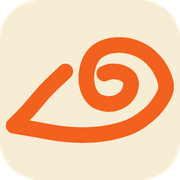
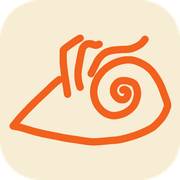
Hand-lettered title, Zobie with hair, release bar, Bilderberg headings, clickable covers and titles, About moved up, Zobie easter egg

Changed region(s): [[0.0278, 0.1944, 0.9722, 0.8333]]

diff --git a/index.html b/index.html
@@ -8,25 +8,39 @@
   <meta property="og:title" content="Kostandino">
   <meta property="og:description" content="Music, art and ZOBIE.">
   <meta property="og:image" content="assets/img/covers/willow.jpg">
-  <link rel="icon" href="assets/zobie.svg?v=2" type="image/svg+xml">
-  <link rel="icon" href="assets/favicon-32.png?v=2" type="image/png" sizes="32x32">
+  <link rel="icon" href="assets/zobie.svg?v=3" type="image/svg+xml">
+  <link rel="icon" href="assets/favicon-32.png?v=3" type="image/png" sizes="32x32">
   <link rel="apple-touch-icon" href="assets/apple-touch-icon.png">
   <link rel="preconnect" href="https://fonts.googleapis.com">
   <link rel="preconnect" href="https://fonts.gstatic.com" crossorigin>
   <link href="https://fonts.googleapis.com/css2?family=Bagel+Fat+One&family=Caveat:wght@500;700&family=DM+Sans:opsz,wght@9..40,400;9..40,500;9..40,700&display=swap" rel="stylesheet">
+  <!-- Bilderberg (Delapan Studio) is free for personal use only: buy the commercial licence before this goes live -->
+  <link href="https://fonts.cdnfonts.com/css/bilderberg" rel="stylesheet">
   <link rel="stylesheet" href="styles.css">
 </head>
 <body>
   <svg width="0" height="0" style="position:absolute" aria-hidden="true">
-    <!-- Traced from Kosta's pencil sketch (Website Photos/IMG_4367.JPEG): one continuous stroke -->
-    <symbol id="zobie" viewBox="40 60 640 400">
-      <path pathLength="1" d="M268 190 C257 201 223 231 200 255 C177 279 151 312 130 335 C109 358 82 385 72 395 C85 397 120 403 150 408 C180 413 217 421 250 425 C283 429 318 431 350 430 C382 429 412 426 440 420 C468 414 497 406 520 395 C543 384 562 370 580 355 C598 340 614 322 625 305 C636 288 646 271 648 255 C650 239 646 226 640 210 C634 194 624 175 612 160 C600 145 585 130 570 120 C555 110 537 102 520 97 C503 92 487 90 470 90 C453 90 435 93 420 98 C405 103 391 111 380 122 C369 133 360 150 355 165 C350 180 347 199 347 215 C347 231 350 247 355 260 C360 273 368 286 378 295 C388 304 402 308 415 311 C428 314 442 313 455 310 C468 307 480 300 490 292 C500 284 508 271 512 260 C516 249 517 237 515 228 C513 219 508 211 500 205 C492 199 480 194 470 192 C460 190 449 189 440 190 C431 191 419 197 415 198"/>
+    <!-- Traced from Kosta's pen drawing of Zobie with hair: the body is one continuous stroke, plus three hairs -->
+    <symbol id="zobie" viewBox="30 22 315 220">
+      <path pathLength="1" d="M130 113 C128.3 114.3 125.0 116.5 120.0 121.0 C115.0 125.5 106.7 133.7 100.0 140.0 C93.3 146.3 86.7 152.3 80.0 159.0 C73.3 165.7 65.8 173.5 60.0 180.0 C54.2 186.5 47.5 195.0 45.0 198.0 C47.5 198.5 54.2 199.5 60.0 201.0 C65.8 202.5 73.3 205.2 80.0 207.0 C86.7 208.8 93.3 210.5 100.0 212.0 C106.7 213.5 113.3 214.7 120.0 216.0 C126.7 217.3 133.3 218.8 140.0 220.0 C146.7 221.2 153.3 222.0 160.0 223.0 C166.7 224.0 174.2 225.3 180.0 226.0 C185.8 226.7 188.3 227.2 195.0 227.0 C201.7 226.8 212.5 225.7 220.0 225.0 C227.5 224.3 233.3 224.2 240.0 223.0 C246.7 221.8 253.3 220.0 260.0 218.0 C266.7 216.0 273.3 213.8 280.0 211.0 C286.7 208.2 294.7 204.5 300.0 201.0 C305.3 197.5 308.7 193.5 312.0 190.0 C315.3 186.5 317.7 183.7 320.0 180.0 C322.3 176.3 324.7 171.7 326.0 168.0 C327.3 164.3 328.7 162.7 328.0 158.0 C327.3 153.3 324.2 146.0 322.0 140.0 C319.8 134.0 317.8 127.8 315.0 122.0 C312.2 116.2 308.3 109.8 305.0 105.0 C301.7 100.2 299.2 96.7 295.0 93.0 C290.8 89.3 285.5 85.7 280.0 83.0 C274.5 80.3 267.8 77.8 262.0 77.0 C256.2 76.2 250.7 76.8 245.0 78.0 C239.3 79.2 233.5 81.2 228.0 84.0 C222.5 86.8 216.7 90.7 212.0 95.0 C207.3 99.3 203.0 105.0 200.0 110.0 C197.0 115.0 195.2 120.0 194.0 125.0 C192.8 130.0 192.5 135.0 193.0 140.0 C193.5 145.0 195.0 150.5 197.0 155.0 C199.0 159.5 202.0 163.7 205.0 167.0 C208.0 170.3 211.2 173.0 215.0 175.0 C218.8 177.0 223.5 178.7 228.0 179.0 C232.5 179.3 237.5 178.3 242.0 177.0 C246.5 175.7 251.2 173.5 255.0 171.0 C258.8 168.5 262.3 165.5 265.0 162.0 C267.7 158.5 269.7 154.2 271.0 150.0 C272.3 145.8 273.2 141.2 273.0 137.0 C272.8 132.8 271.3 128.0 270.0 125.0 C268.7 122.0 268.0 120.7 265.0 119.0 C262.0 117.3 256.2 115.5 252.0 115.0 C247.8 114.5 243.3 114.7 240.0 116.0 C236.7 117.3 233.8 120.2 232.0 123.0 C230.2 125.8 229.0 129.8 229.0 133.0 C229.0 136.2 230.2 139.3 232.0 142.0 C233.8 144.7 237.0 147.8 240.0 149.0 C243.0 150.2 247.5 150.2 250.0 149.0 C252.5 147.8 254.2 144.3 255.0 142.0 C255.8 139.7 255.8 136.8 255.0 135.0 C254.2 133.2 251.5 131.5 250.0 131.0 C248.5 130.5 246.7 131.8 246.0 132.0"/>
+      <path class="zobie-hair" pathLength="1" d="M168 37 C166.3 38.0 162.7 39.8 158.0 43.0 C153.3 46.2 143.5 53.2 140.0 56.0 C136.5 58.8 137.5 59.3 137.0 60.0 C137.0 63.3 136.7 73.3 137.0 80.0 C137.3 86.7 138.2 93.3 139.0 100.0 C139.8 106.7 141.0 113.3 142.0 120.0 C143.0 126.7 144.5 136.7 145.0 140.0"/>
+      <path class="zobie-hair" pathLength="1" d="M203 48 C201.8 48.3 198.5 50.1 196.0 50.0 C193.5 49.9 190.7 47.8 188.0 47.5 C185.3 47.2 182.3 47.1 180.0 48.0 C177.7 48.9 175.5 51.0 174.0 53.0 C172.5 55.0 172.2 55.5 171.0 60.0 C169.8 64.5 168.2 73.3 167.0 80.0 C165.8 86.7 164.3 94.0 164.0 100.0 C163.7 106.0 164.3 111.5 165.0 116.0 C165.7 120.5 167.5 125.2 168.0 127.0"/>
+      <path class="zobie-hair" pathLength="1" d="M287 39 C285.8 40.3 282.8 44.7 280.0 47.0 C277.2 49.3 273.7 51.3 270.0 53.0 C266.3 54.7 263.0 56.2 258.0 57.0 C253.0 57.8 245.7 57.5 240.0 58.0 C234.3 58.5 228.7 58.8 224.0 60.0 C219.3 61.2 215.7 62.5 212.0 65.0 C208.3 67.5 204.7 71.5 202.0 75.0 C199.3 78.5 197.8 82.5 196.0 86.0 C194.2 89.5 192.3 93.3 191.0 96.0 C189.7 98.7 188.5 101.0 188.0 102.0"/>
     </symbol>
     <!-- Three slightly different wobbles, cycled to make the line "boil" like hand-drawn animation -->
     <filter id="boil-1"><feTurbulence type="fractalNoise" baseFrequency="0.02" numOctaves="2" seed="1"/><feDisplacementMap in="SourceGraphic" scale="3"/></filter>
     <filter id="boil-2"><feTurbulence type="fractalNoise" baseFrequency="0.02" numOctaves="2" seed="7"/><feDisplacementMap in="SourceGraphic" scale="3"/></filter>
     <filter id="boil-3"><feTurbulence type="fractalNoise" baseFrequency="0.02" numOctaves="2" seed="13"/><feDisplacementMap in="SourceGraphic" scale="3"/></filter>
   </svg>
+
+  <!-- New-release bar: update the cover, title and link for each release -->
+  <a class="release-bar" href="https://open.spotify.com/track/4Q93FwXEhfIGorU4pDBz6H" target="_blank" rel="noopener">
+    <img src="assets/img/covers/willow.jpg" alt="" width="34" height="34">
+    <span class="release-bar-tag">New single</span>
+    <span class="release-bar-title">Willow</span>
+    <span class="release-bar-note">out now</span>
+    <span class="release-bar-cta">Listen →</span>
+  </a>
 
   <header class="nav">
     <a class="brand" href="#top" aria-label="Kostandino, back to top">
@@ -35,8 +49,8 @@
     </a>
     <nav aria-label="Main">
       <a href="#latest">Willow</a>
-      <a href="#music">Music</a>
       <a href="#about">About</a>
+      <a href="#music">Music</a>
       <a href="#contact">Contact</a>
     </nav>
     <button class="theme-toggle" type="button" aria-label="Switch between day and night">
@@ -48,17 +62,20 @@
     <section class="hero">
       <img class="doodles" src="assets/img/doodles.png" alt="" aria-hidden="true">
       <p class="hand hero-kicker" aria-label="Certified overthinker with a melody"><span class="tagline" aria-hidden="true">certified overthinker with a melody</span></p>
+      <!-- Kosta's own hand lettering, traced from his pencil sketch -->
       <h1 class="hero-title" aria-label="Kostandino">
-        <span>Kostan</span><span>dino</span>
+        <img class="day-only" src="assets/img/title-day.png?v=4" alt="" width="1800" height="411">
+        <img class="night-only" src="assets/img/title-night.png?v=4" alt="" width="1800" height="411">
       </h1>
-      <div class="hero-stack" aria-hidden="true">
-        <img src="assets/img/covers/willow.jpg" alt="">
-        <img src="assets/img/rabbit-hole.jpg" alt="">
-        <img src="assets/img/summer-vibes.jpg" alt="">
+      <div class="hero-stack">
+        <a class="card" href="#latest" aria-label="Willow, the new single"><img src="assets/img/covers/willow.jpg" alt=""></a>
+        <span class="card" aria-hidden="true"><img src="assets/img/rabbit-hole.jpg" alt=""></span>
+        <a class="card" href="#about" aria-label="About Kosta"><img src="assets/img/summer-vibes.jpg" alt=""></a>
       </div>
       <div class="hero-cta">
         <a class="btn primary" href="#latest">Hear “Willow”</a>
         <a class="btn" href="#music">All music</a>
+        <a class="btn" href="#about">Meet Kosta</a>
       </div>
     </section>
 
@@ -68,7 +85,7 @@
 
     <section id="latest" class="section featured">
       <div class="featured-cover">
-        <img src="assets/img/covers/willow.jpg" alt="Willow cover art: pale leaves on deep blue and green">
+        <a href="https://open.spotify.com/track/4Q93FwXEhfIGorU4pDBz6H" target="_blank" rel="noopener" aria-label="Listen to Willow on Spotify"><img src="assets/img/covers/willow.jpg" alt="Willow cover art: pale leaves on deep blue and green"></a>
         <span class="tape"></span>
       </div>
       <div class="featured-text">
@@ -81,14 +98,6 @@
           <a class="btn" href="https://share.amuse.io/track/kostandino-willow" target="_blank" rel="noopener">All platforms</a>
         </div>
       </div>
-    </section>
-
-    <section id="music" class="section">
-      <div class="section-head">
-        <h2>The music</h2>
-        <p class="hand">2021 → now. tap a cover</p>
-      </div>
-      <div class="releases"></div>
     </section>
 
     <section id="about" class="section about">
@@ -107,6 +116,14 @@
           <li>Zobie's best friend</li>
         </ul>
       </div>
+    </section>
+
+    <section id="music" class="section">
+      <div class="section-head">
+        <h2>The music</h2>
+        <p class="hand">2021 → now. tap a cover</p>
+      </div>
+      <div class="releases"></div>
     </section>
 
     <section id="contact" class="section contact">
@@ -134,7 +151,7 @@
 
   <dialog class="sheet" aria-labelledby="sheet-title">
     <button class="sheet-close" type="button" aria-label="Close">×</button>
-    <img class="sheet-cover" src="" alt="">
+    <a class="sheet-cover-link" data-link="spotify" href="#" target="_blank" rel="noopener"><img class="sheet-cover" src="" alt=""></a>
     <div class="sheet-body">
       <p class="hand sheet-note"></p>
       <h3 id="sheet-title"></h3>

diff --git a/styles.css b/styles.css
@@ -12,7 +12,7 @@
   --card: #fffaf0;
   --on-alt: #1d1509;
   --shadow: #1d1509;
-  --display: 'Bagel Fat One', 'Arial Black', sans-serif;
+  --display: 'Bilderberg', 'Bagel Fat One', Georgia, serif;
   --hand: 'Caveat', 'Bradley Hand', cursive;
   --body: 'DM Sans', system-ui, sans-serif;
 }
@@ -48,13 +48,31 @@ h2 { font-size: clamp(2.6rem, 8vw, 5.5rem); }
 .hand { font-family: var(--hand); font-size: 1.6rem; line-height: 1.1; margin: 0; }
 .lead { font-size: 1.3rem; line-height: 1.45; }
 
-/* stroke-width is in the drawing's own units (it is ~640 wide), so it is set per size */
+/* stroke-width is in the drawing's own units (it is ~315 wide), so it is set per size */
 .mark {
-  width: 46px; height: 29px;
-  fill: none; stroke: currentColor; stroke-width: 44;
+  width: 46px; height: 32px;
+  fill: none; stroke: currentColor; stroke-width: 14;
   stroke-linecap: round; stroke-linejoin: round;
   overflow: visible;
 }
+
+/* New-release bar */
+.release-bar {
+  display: flex; flex-wrap: wrap; align-items: center; justify-content: center; gap: .3rem .8rem;
+  padding: .45rem 1rem;
+  background: var(--navy); color: #fffaf0;
+  text-decoration: none;
+}
+.release-bar img { width: 34px; height: 34px; border: 2px solid #fffaf0; border-radius: 4px; rotate: -4deg; }
+.release-bar-tag {
+  padding: .1rem .6rem; border-radius: 999px;
+  background: #ffd23f; color: #1d1509;
+  font-size: .75rem; font-weight: 700; letter-spacing: .06em; text-transform: uppercase;
+}
+.release-bar-title { font-family: var(--display); font-size: 1.35rem; line-height: 1; }
+.release-bar-note { opacity: .8; }
+.release-bar-cta { font-weight: 700; text-decoration: underline; text-underline-offset: 4px; }
+.release-bar:hover .release-bar-cta { color: #ffd23f; }
 
 /* Nav */
 .nav {
@@ -119,35 +137,30 @@ h2 { font-size: clamp(2.6rem, 8vw, 5.5rem); }
 [data-theme='night'] .doodles { filter: invert(1); mix-blend-mode: screen; }
 .hero > :not(.doodles) { position: relative; }
 .hero-kicker { color: var(--accent); font-size: clamp(1.5rem, 3.5vw, 2.2rem); rotate: -2deg; }
-.tagline { display: inline-block; transition: opacity .7s, translate .7s; }
-.tagline.out { opacity: 0; translate: 0 6px; }
 .hero-title {
-  font-size: clamp(3.2rem, 14.5vw, 15rem);
-  color: var(--pop);
-  -webkit-text-stroke: .018em var(--ink);
-  text-shadow:
-    .035em .035em 0 var(--accent),
-    .07em .07em 0 var(--shadow);
-  letter-spacing: .01em;
+  width: min(92vw, 1150px);
+  filter: drop-shadow(.35vw .35vw 0 var(--accent)) drop-shadow(.3vw .3vw 0 var(--shadow));
 }
-.hero-title span { display: inline-block; }
-.hero-title span:first-child { rotate: -2deg; }
-.hero-title span:last-child { rotate: 1.5deg; translate: 0 .06em; }
+.hero-title img { width: 100%; height: auto; }
+.night-only, [data-theme='night'] .day-only { display: none; }
+[data-theme='night'] .night-only { display: block; }
 .hero-stack {
-  display: grid; width: min(320px, 62vw); aspect-ratio: 1;
-  margin-top: -1.5rem;
+  display: grid; width: min(400px, 62vw, 42svh); aspect-ratio: 1;
+  margin-top: .25rem;
 }
-.hero-stack img {
-  grid-area: 1 / 1;
+.hero-stack .card {
+  grid-area: 1 / 1; overflow: hidden;
   border: 3px solid var(--ink); border-radius: 6px;
   box-shadow: 8px 8px 0 var(--shadow);
-  transition: rotate .4s, translate .4s;
+  transition: rotate .4s, translate .4s, scale .2s;
 }
-.hero-stack img:nth-child(1) { rotate: -11deg; translate: -38% 4%; }
-.hero-stack img:nth-child(2) { rotate: 10deg; translate: 38% 6%; }
-.hero-stack img:nth-child(3) { rotate: -2deg; }
-.hero:hover .hero-stack img:nth-child(1) { rotate: -15deg; translate: -50% 2%; }
-.hero:hover .hero-stack img:nth-child(2) { rotate: 14deg; translate: 50% 4%; }
+.hero-stack .card img { width: 100%; height: 100%; object-fit: cover; }
+.hero-stack .card:nth-child(1) { rotate: -11deg; translate: -38% 4%; }
+.hero-stack .card:nth-child(2) { rotate: 10deg; translate: 38% 6%; }
+.hero-stack .card:nth-child(3) { rotate: -2deg; }
+.hero:hover .hero-stack .card:nth-child(1) { rotate: -15deg; translate: -50% 2%; }
+.hero:hover .hero-stack .card:nth-child(2) { rotate: 14deg; translate: 50% 4%; }
+.hero-stack a.card:hover { scale: 1.04; }
 .hero-cta { display: flex; flex-wrap: wrap; gap: 1rem; justify-content: center; margin-top: 1.5rem; }
 
 /* Marquee */
@@ -163,7 +176,10 @@ h2 { font-size: clamp(2.6rem, 8vw, 5.5rem); }
   padding: .5rem 0;
   animation: slide 28s linear infinite;
 }
-.marquee-track span { padding: 0 1rem; white-space: nowrap; }
+.marquee-track > * { padding: 0 1rem; white-space: nowrap; }
+.marquee-track button { border: 0; background: none; color: inherit; font: inherit; cursor: pointer; }
+.marquee-track button:hover { color: var(--pop); text-decoration: underline wavy 2px; text-underline-offset: 6px; }
+.marquee:hover .marquee-track { animation-play-state: paused; }
 .marquee-track .star { color: var(--pop); }
 @keyframes slide { to { transform: translateX(-50%); } }
 
@@ -175,6 +191,7 @@ h2 { font-size: clamp(2.6rem, 8vw, 5.5rem); }
 /* Featured release */
 .featured { display: grid; grid-template-columns: minmax(0, 5fr) minmax(0, 6fr); gap: clamp(2rem, 6vw, 5rem); align-items: center; }
 .featured-cover { position: relative; rotate: 2.5deg; }
+.featured-cover a { display: block; }
 .featured-cover img { border: 3px solid var(--ink); border-radius: 6px; box-shadow: 10px 10px 0 var(--accent); }
 .featured-kicker { color: var(--accent); rotate: -2deg; margin-bottom: .5rem; }
 .featured-text h2 { font-size: clamp(4rem, 13vw, 9rem); }
@@ -234,7 +251,7 @@ h2 { font-size: clamp(2.6rem, 8vw, 5.5rem); }
   padding: 2rem 1rem; border-top: 2px solid var(--ink);
   font-size: .9rem; color: var(--ink-soft);
 }
-.footer .mark { width: 32px; height: 20px; color: var(--accent); }
+.footer .mark { width: 32px; height: 22px; color: var(--accent); }
 
 /* Zobie, the mascot: draws himself in, then floats in the corner */
 .mascot {
@@ -253,7 +270,7 @@ h2 { font-size: clamp(2.6rem, 8vw, 5.5rem); }
   animation: bob 3.2s ease-in-out infinite;
 }
 .mascot .mark {
-  width: 64px; height: 40px; stroke-width: 34;
+  width: 64px; height: 45px; stroke-width: 11;
   stroke-dasharray: 1; stroke-dashoffset: 1;
   animation: draw 1.8s .4s ease-in-out forwards, boil .45s steps(1) infinite;
 }
@@ -274,6 +291,11 @@ h2 { font-size: clamp(2.6rem, 8vw, 5.5rem); }
   33% { filter: url(#boil-2); }
   66% { filter: url(#boil-3); }
 }
+/* Zobie's hair sways from the roots */
+.zobie-hair { transform-box: fill-box; transform-origin: 50% 100%; animation: sway 2.6s ease-in-out infinite; }
+.zobie-hair:nth-of-type(3) { animation-delay: -.5s; }
+.zobie-hair:nth-of-type(4) { transform-origin: 0% 100%; animation-delay: -1s; }
+@keyframes sway { 50% { rotate: 7deg; } }
 @keyframes draw { to { stroke-dashoffset: 0; } }
 @keyframes bob { 50% { translate: 0 -8px; rotate: -5deg; } }
 @keyframes hop {
@@ -291,6 +313,7 @@ h2 { font-size: clamp(2.6rem, 8vw, 5.5rem); }
 }
 .sheet[open] { display: grid; grid-template-columns: 1fr 1fr; }
 .sheet::backdrop { background: rgb(10 10 20 / .65); backdrop-filter: blur(4px); }
+.sheet-cover-link { display: block; }
 .sheet-cover { width: 100%; aspect-ratio: 1; object-fit: cover; }
 .sheet-body { display: grid; align-content: center; gap: 1rem; padding: 2rem; }
 .sheet-body h3 { font-size: clamp(2.2rem, 5vw, 3.5rem); }
@@ -309,7 +332,7 @@ h2 { font-size: clamp(2.6rem, 8vw, 5.5rem); }
 @media (max-width: 760px) {
   .nav nav { display: none; }
   .mascot-body { width: 68px; height: 68px; }
-  .mascot .mark { width: 48px; height: 30px; }
+  .mascot .mark { width: 48px; height: 34px; }
   .mascot-say { font-size: 1.2rem; }
   .hero-stack { width: min(240px, 52vw); margin-top: 0; }
   .theme-toggle { margin-left: auto; }

diff --git a/script.js b/script.js
@@ -36,7 +36,7 @@ const RELEASES = [
       soundcloud: 'https://soundcloud.com/kosta_sweezy/demo-my-heart' } },
 ];
 
-// Lines that take turns under the name in the hero. All Kosta's own words:
+// Lines that are typed out in turn under the name in the hero. All Kosta's own words:
 // his Instagram bio first (it stays up longest), then a post and two covers.
 const TAGLINES = [
   'certified overthinker with a melody',
@@ -65,10 +65,14 @@ RELEASES.forEach((r, i) => {
   grid.append(card);
 });
 
-// Marquee (duplicated once so the loop is seamless)
+// Marquee (duplicated once so the loop is seamless); each title opens that song
 const track = document.querySelector('.marquee-track');
-const run = RELEASES.map((r) => `<span>${r.title}</span><span class="star">✺</span>`).join('');
+const run = RELEASES.map((r, i) => `<button type="button" tabindex="-1" data-release="${i}">${r.title}</button><span class="star">✺</span>`).join('');
 track.innerHTML = run + run;
+track.addEventListener('click', (e) => {
+  const button = e.target.closest('[data-release]');
+  if (button) openSheet(RELEASES[button.dataset.release]);
+});
 
 // Release sheet
 const sheet = document.querySelector('.sheet');
@@ -105,20 +109,20 @@ document.querySelector('.theme-toggle').addEventListener('click', () => {
   setTheme(isNight() ? 'day' : 'night');
 });
 
-// Hero tagline: each line fades in, holds, and fades to the next
+// Hero tagline: each line types in, holds, then backspaces to the next (no cursor)
 const tagline = document.querySelector('.tagline');
 if (!matchMedia('(prefers-reduced-motion: reduce)').matches) {
-  let line = 0;
-  const next = () => {
-    tagline.classList.add('out');
-    setTimeout(() => {
-      line = (line + 1) % TAGLINES.length;
-      tagline.textContent = TAGLINES[line];
-      tagline.classList.remove('out');
-      setTimeout(next, line === 0 ? 8000 : 5000);
-    }, 700);
+  let line = 0, chars = TAGLINES[0].length, deleting = true;
+  const tick = () => {
+    const text = TAGLINES[line];
+    chars += deleting ? -1 : 1;
+    tagline.textContent = text.slice(0, chars) || '\u00a0';
+    let wait = deleting ? 30 : 60;
+    if (!deleting && chars === text.length) { deleting = true; wait = line === 0 ? 8000 : 5000; }
+    if (deleting && chars === 0) { deleting = false; line = (line + 1) % TAGLINES.length; wait = 400; }
+    setTimeout(tick, wait);
   };
-  setTimeout(next, 8000);
+  setTimeout(tick, 8000);
 }
 
 // Zobie the mascot: comments on whichever section is in view, hops when clicked,
@@ -133,12 +137,20 @@ const SECTION_LINES = {
   contact: 'go on, say hi',
 };
 const CLICK_LINES = ['wheee!', 'boop', 'time flys…', 'not my phone', 'again!', 'wild & free'];
+// Easter egg: every 10th click on Zobie reveals what one letter of his name means.
+const ZOBIE_MEANINGS = [
+  'Z — you don’t have to stick out to be unique',
+  'O — because my name has two Os',
+  'B — be yourself (it ain’t that deep)',
+  'I — introverted',
+  'E — extroverted',
+];
 let sayTimer;
-function speak(line) {
+function speak(line, hold = 3500) {
   say.textContent = line;
   say.classList.add('show');
   clearTimeout(sayTimer);
-  sayTimer = setTimeout(() => say.classList.remove('show'), 3500);
+  sayTimer = setTimeout(() => say.classList.remove('show'), hold);
 }
 const watcher = new IntersectionObserver((entries) => {
   entries.forEach((e) => { if (e.isIntersecting) speak(SECTION_LINES[e.target.dataset.zobie]); });
@@ -153,7 +165,12 @@ mascot.addEventListener('click', () => {
   mascot.classList.remove('hop');
   void mascot.offsetWidth; // restart the animation
   mascot.classList.add('hop');
-  speak(CLICK_LINES[clicks++ % CLICK_LINES.length]);
+  clicks++;
+  if (clicks % 10 === 0) {
+    speak(ZOBIE_MEANINGS[(clicks / 10 - 1) % ZOBIE_MEANINGS.length], 7000);
+  } else {
+    speak(CLICK_LINES[clicks % CLICK_LINES.length]);
+  }
 });
 let lastY = scrollY, leanTimer;
 addEventListener('scroll', () => {
